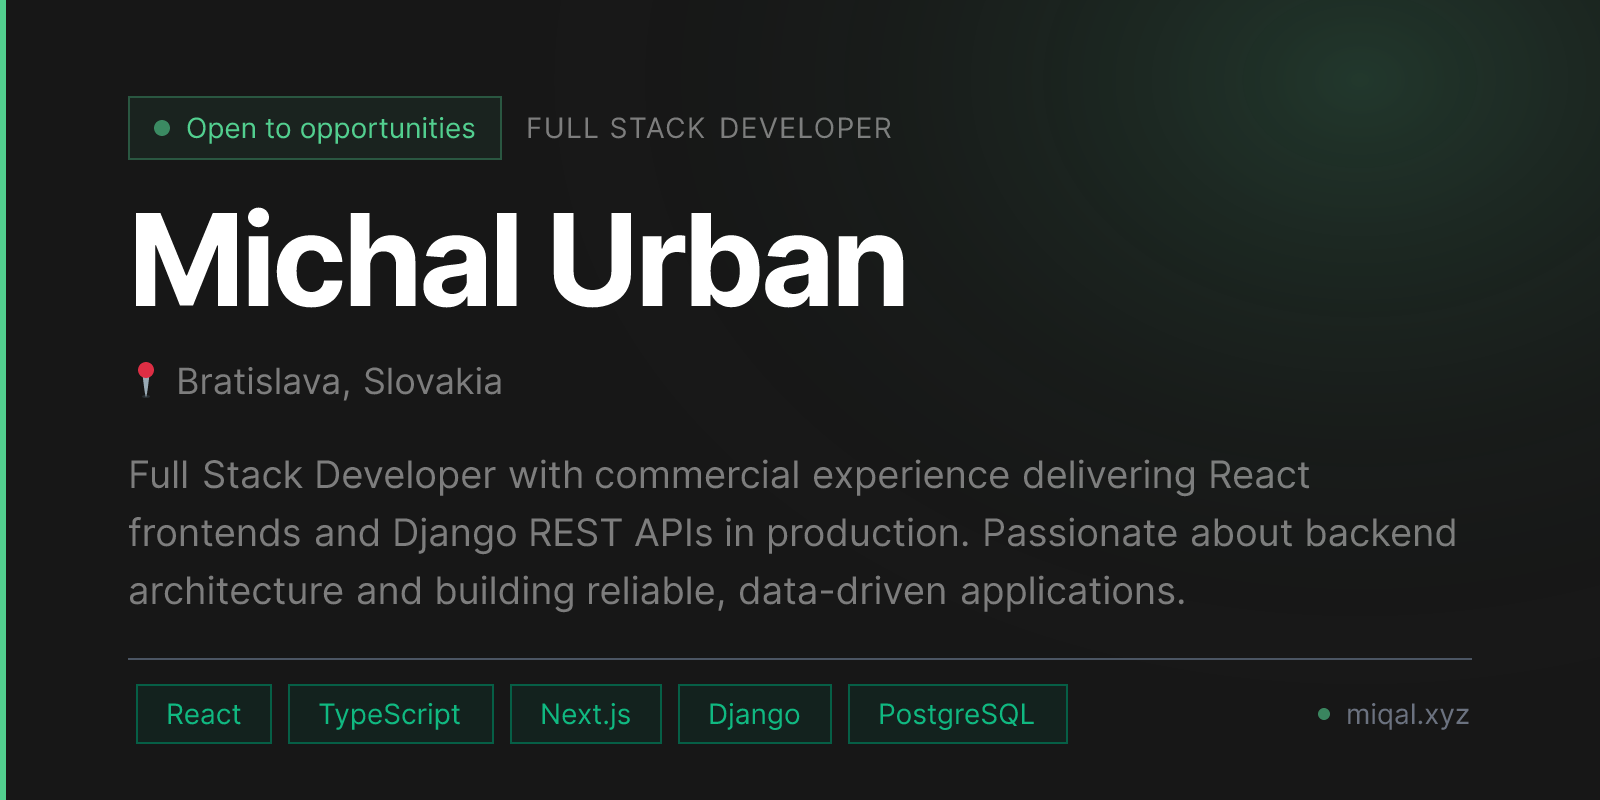
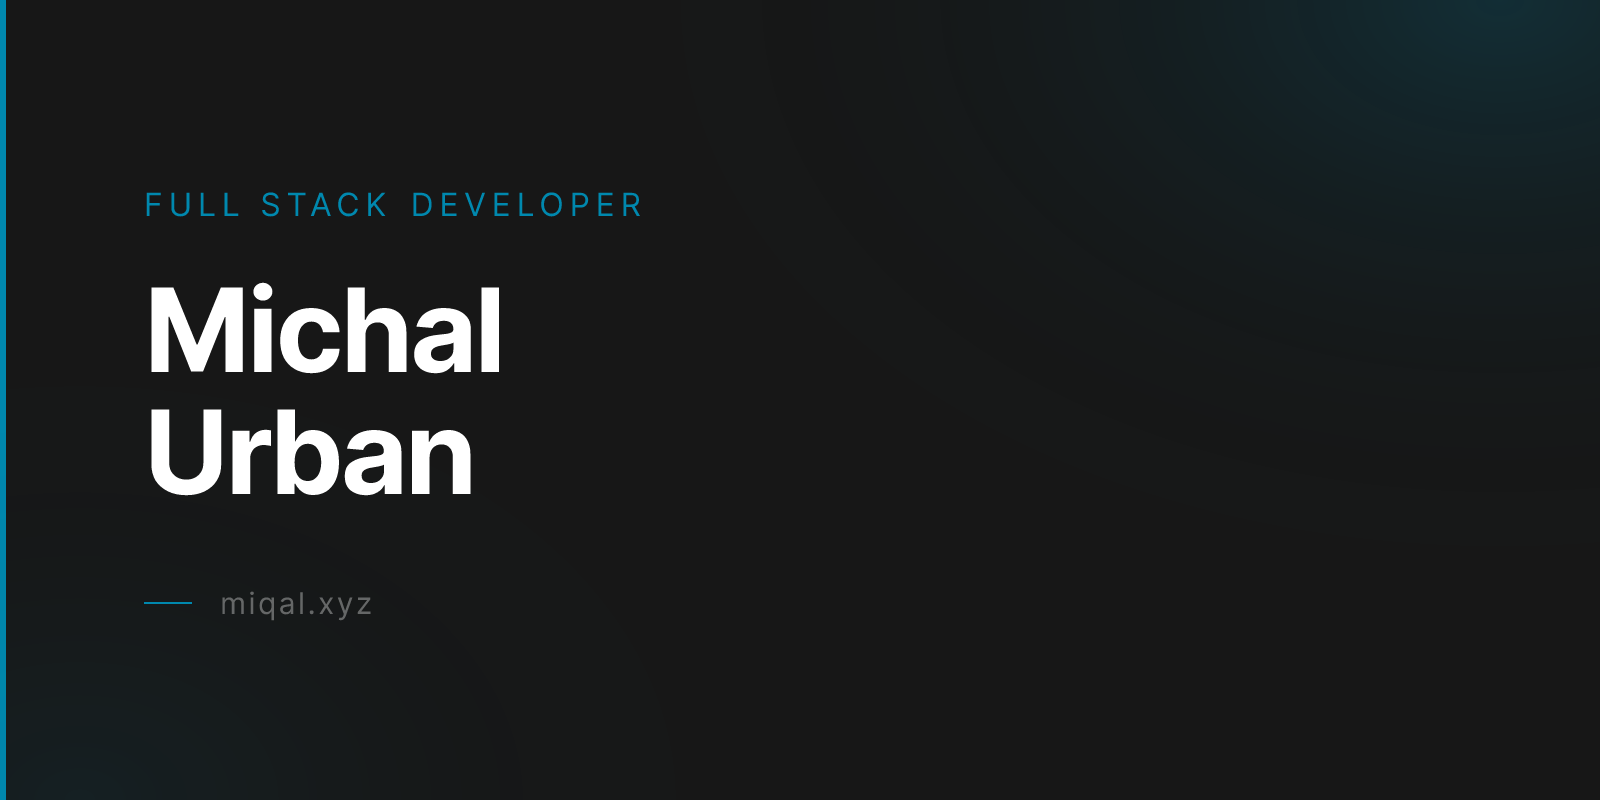
feat: update og image to match accent color

diff --git a/og/og-image.jsx b/og/og-image.jsx
@@ -3,93 +3,60 @@
   style={{ fontFamily: "monospace" }}
 >
   {/* Left accent bar */}
-  <div tw="absolute left-0 top-0 bottom-0 w-[3px] bg-[#52cf8f]" />
+  <div tw="absolute left-0 top-0 bottom-0 w-[3px] bg-[#0088ae]" />
 
-  {/* Top-right glow */}
+  {/* Corner glow top-right */}
   <div
-    tw="absolute top-0 right-0 w-[600px] h-[400px]"
+    tw="absolute top-0 right-0 w-[500px] h-[300px]"
     style={{
       background:
-        "radial-gradient(ellipse at 80% 10%, rgba(82,207,143,0.18) 0%, transparent 60%)",
+        "radial-gradient(ellipse at 90% 0%, rgba(0,136,174,0.2) 0%, transparent 65%)",
+    }}
+  />
+
+  {/* Subtle bottom-left glow */}
+  <div
+    tw="absolute bottom-0 left-0 w-[400px] h-[250px]"
+    style={{
+      background:
+        "radial-gradient(ellipse at 10% 100%, rgba(0,136,174,0.08) 0%, transparent 60%)",
     }}
   />
 
   {/* Content */}
-  <div tw="flex flex-col w-full h-full" style={{ padding: "48px 64px" }}>
-    {/* Badge row */}
-    <div tw="flex items-center" style={{ gap: "12px", marginBottom: "18px" }}>
+  <div tw="flex flex-col justify-center w-full h-full" style={{ padding: "56px 72px" }}>
+
+    {/* Label */}
+    <div
+      tw="text-[#0088ae] text-base uppercase"
+      style={{ letterSpacing: "0.18em", marginBottom: "20px" }}
+    >
+      Full Stack Developer
+    </div>
+
+    {/* Name — split for visual weight control */}
+    <div tw="flex flex-col" style={{ marginBottom: "36px" }}>
       <div
-        tw="flex items-center border border-[rgba(82,207,143,0.30)] bg-[rgba(82,207,143,0.07)]"
-        style={{ gap: "8px", padding: "5px 12px" }}
+        tw="font-bold text-white"
+        style={{ fontSize: "58px", lineHeight: 1.05, letterSpacing: "-1.5px" }}
       >
-        <div tw="w-2 h-2 rounded-full bg-[rgba(82,207,143,0.6)]" />
-        <span tw="text-[#52cf8f] text-sm">Open to opportunities</span>
+        Michal
       </div>
-      <span
-        tw="text-[rgba(250,250,250,0.45)] text-sm uppercase"
-        style={{ letterSpacing: "0.05em" }}
+      <div
+        tw="font-bold text-white"
+        style={{ fontSize: "58px", lineHeight: 1.05, letterSpacing: "-1.5px" }}
       >
-        Full Stack Developer
-      </span>
-    </div>
-
-    {/* Name */}
-    <div
-      tw="font-bold text-white"
-      style={{
-        fontSize: "64px",
-        lineHeight: 1,
-        letterSpacing: "-2px",
-        marginBottom: "14px",
-      }}
-    >
-      Michal Urban
-    </div>
-
-    {/* Location */}
-    <div
-      tw="flex items-center text-[rgba(250,250,250,0.45)] text-lg"
-      style={{ gap: "6px", marginBottom: "18px" }}
-    >
-      <span>📍</span>
-      <span>Bratislava, Slovakia</span>
-    </div>
-
-    {/* Description */}
-    <div
-      tw="flex text-[rgba(250,250,250,0.45)]"
-      style={{
-        fontSize: "19px",
-        lineHeight: 1.55,
-        maxWidth: "720px",
-        marginBottom: "20px",
-        flex: 1,
-      }}
-    >
-      Full Stack Developer with commercial experience delivering React frontends
-      and Django REST APIs in production. Passionate about backend architecture
-      and building reliable, data-driven applications.
-    </div>
-
-    {/* Skills row + Bottom divider + URL */}
-    <div tw="flex items-center justify-between top-5 border-t border-gray-600 pt-3">
-      <div tw="flex">
-        {["React", "TypeScript", "Next.js", "Django", "PostgreSQL"].map(
-          (tag) => (
-            <div
-              key={tag}
-              tw="flex border border-emerald-800 bg-emerald-900/20 text-emerald-500 text-sm mx-1 "
-              style={{ padding: "4px 14px" }}
-            >
-              {tag}
-            </div>
-          ),
-        )}
+        Urban
       </div>
-      <div tw="flex items-center text-gray-500 text-sm" style={{ gap: "8px" }}>
-        <div tw="w-1.5 h-1.5 rounded-full bg-[rgba(82,207,143,0.6)]" />
+    </div>
+
+    {/* Divider + URL row */}
+    <div tw="flex items-center" style={{ gap: "14px" }}>
+      <div tw="w-6 h-[1px] bg-[#0088ae]" />
+      <div tw="text-[rgba(250,250,250,0.35)]" style={{ fontSize: "15px", letterSpacing: "0.08em" }}>
         miqal.xyz
       </div>
     </div>
+
   </div>
 </div>
